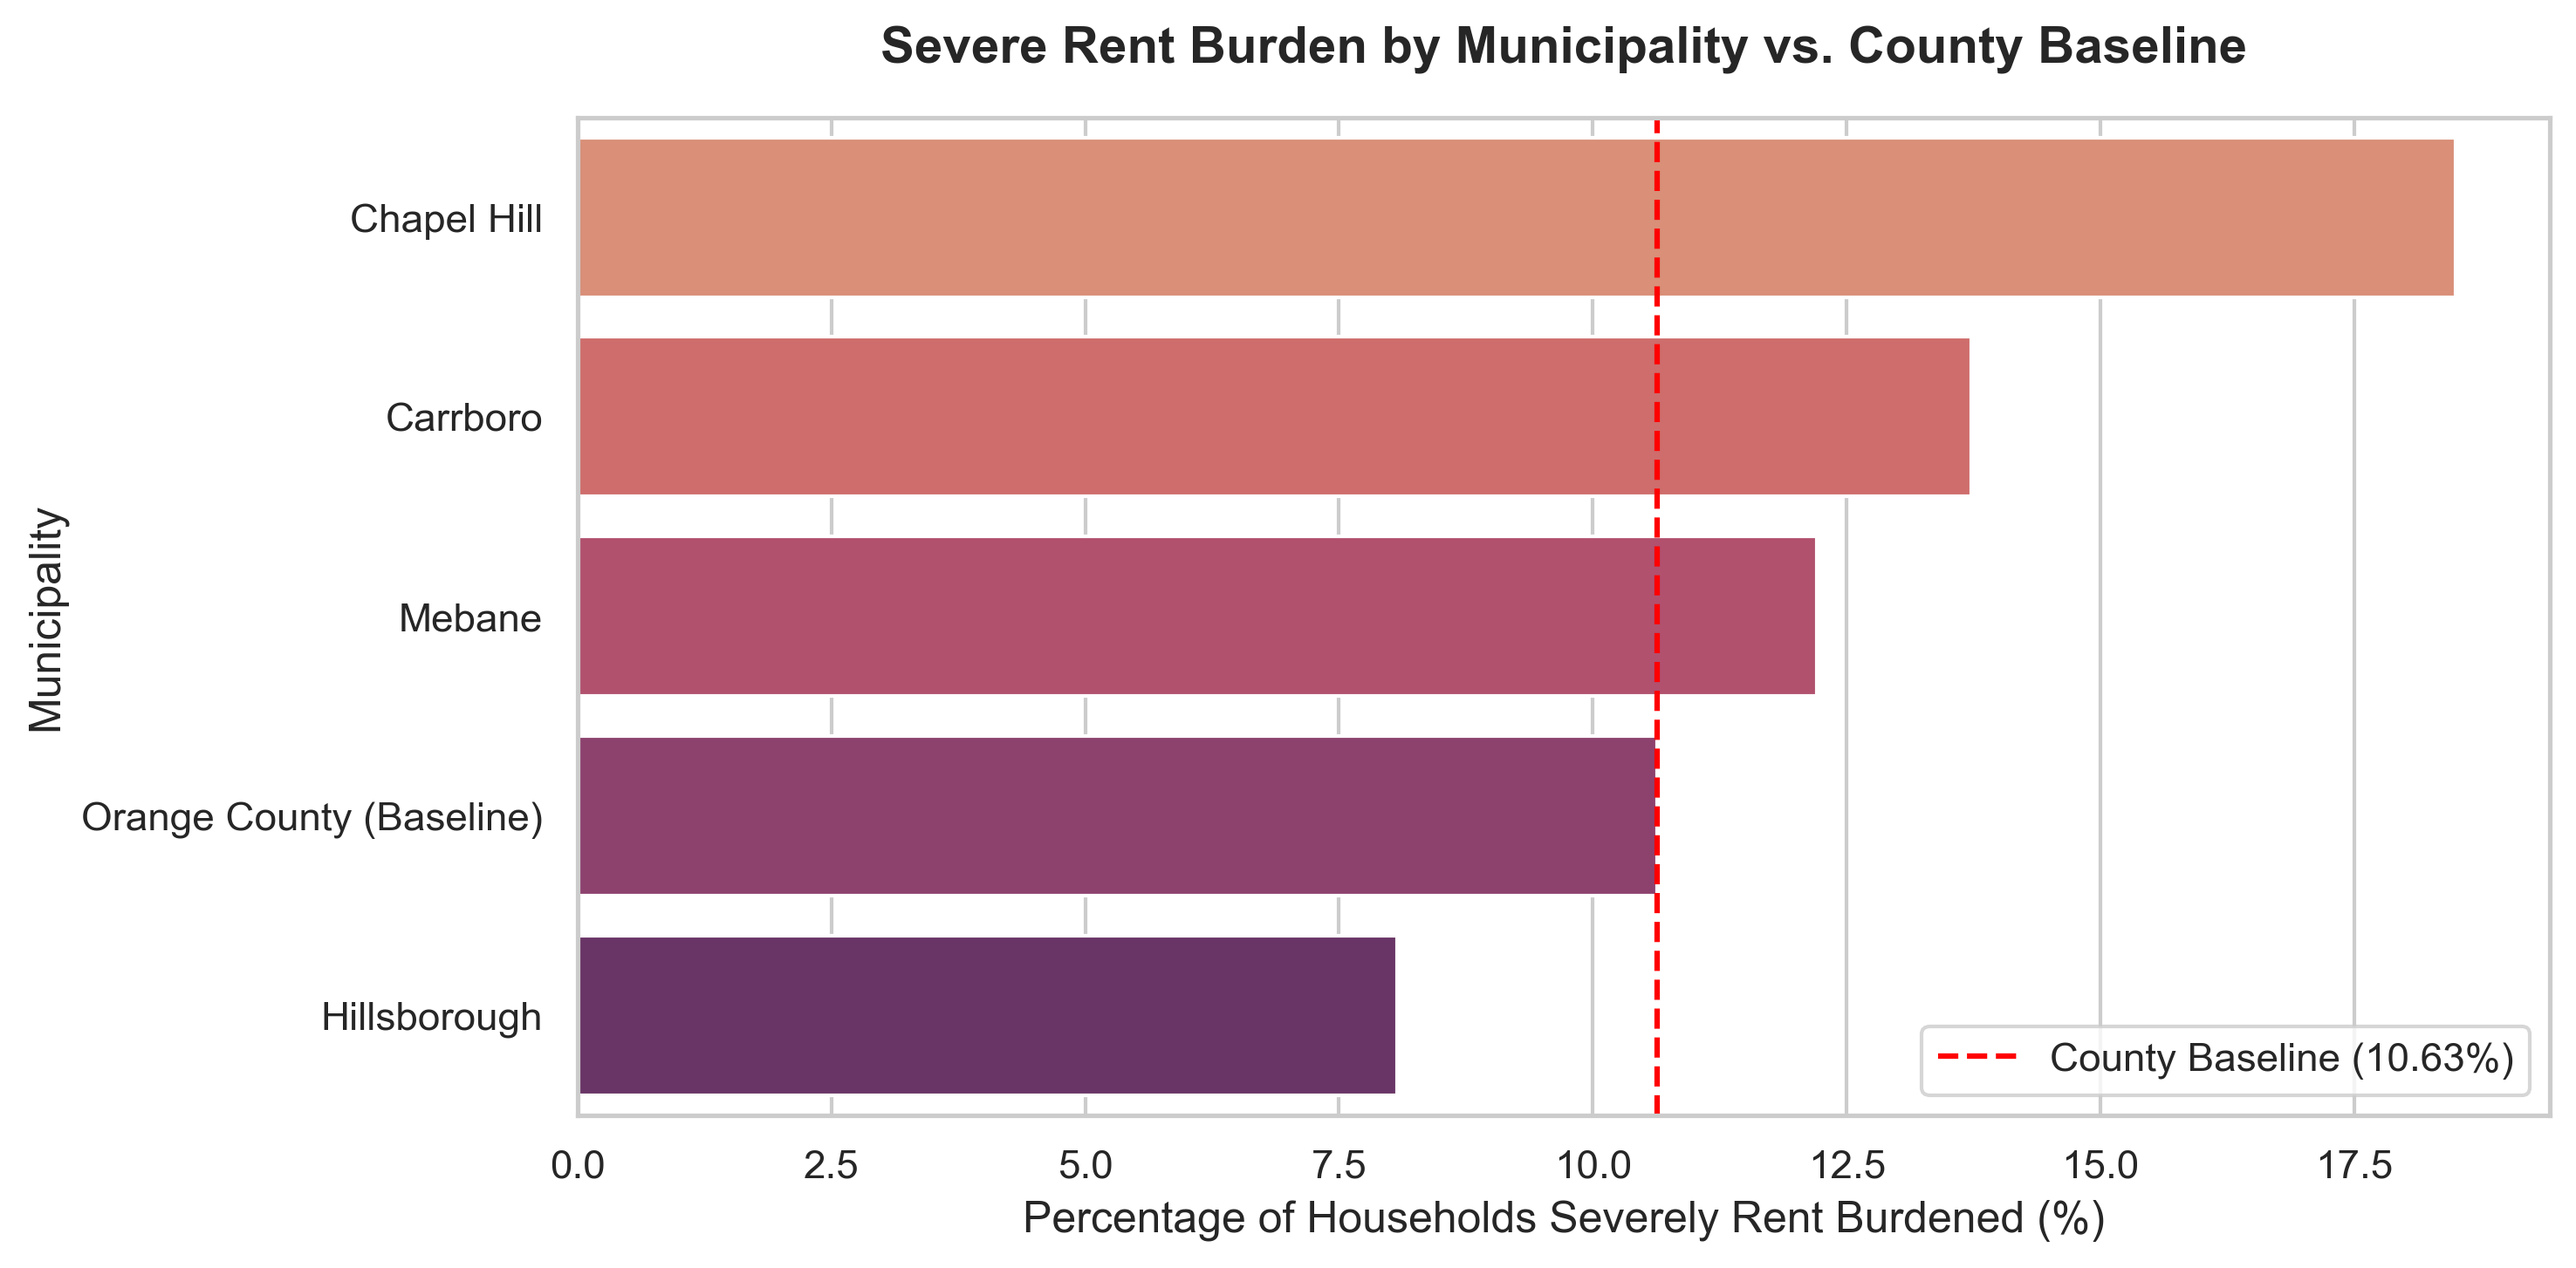
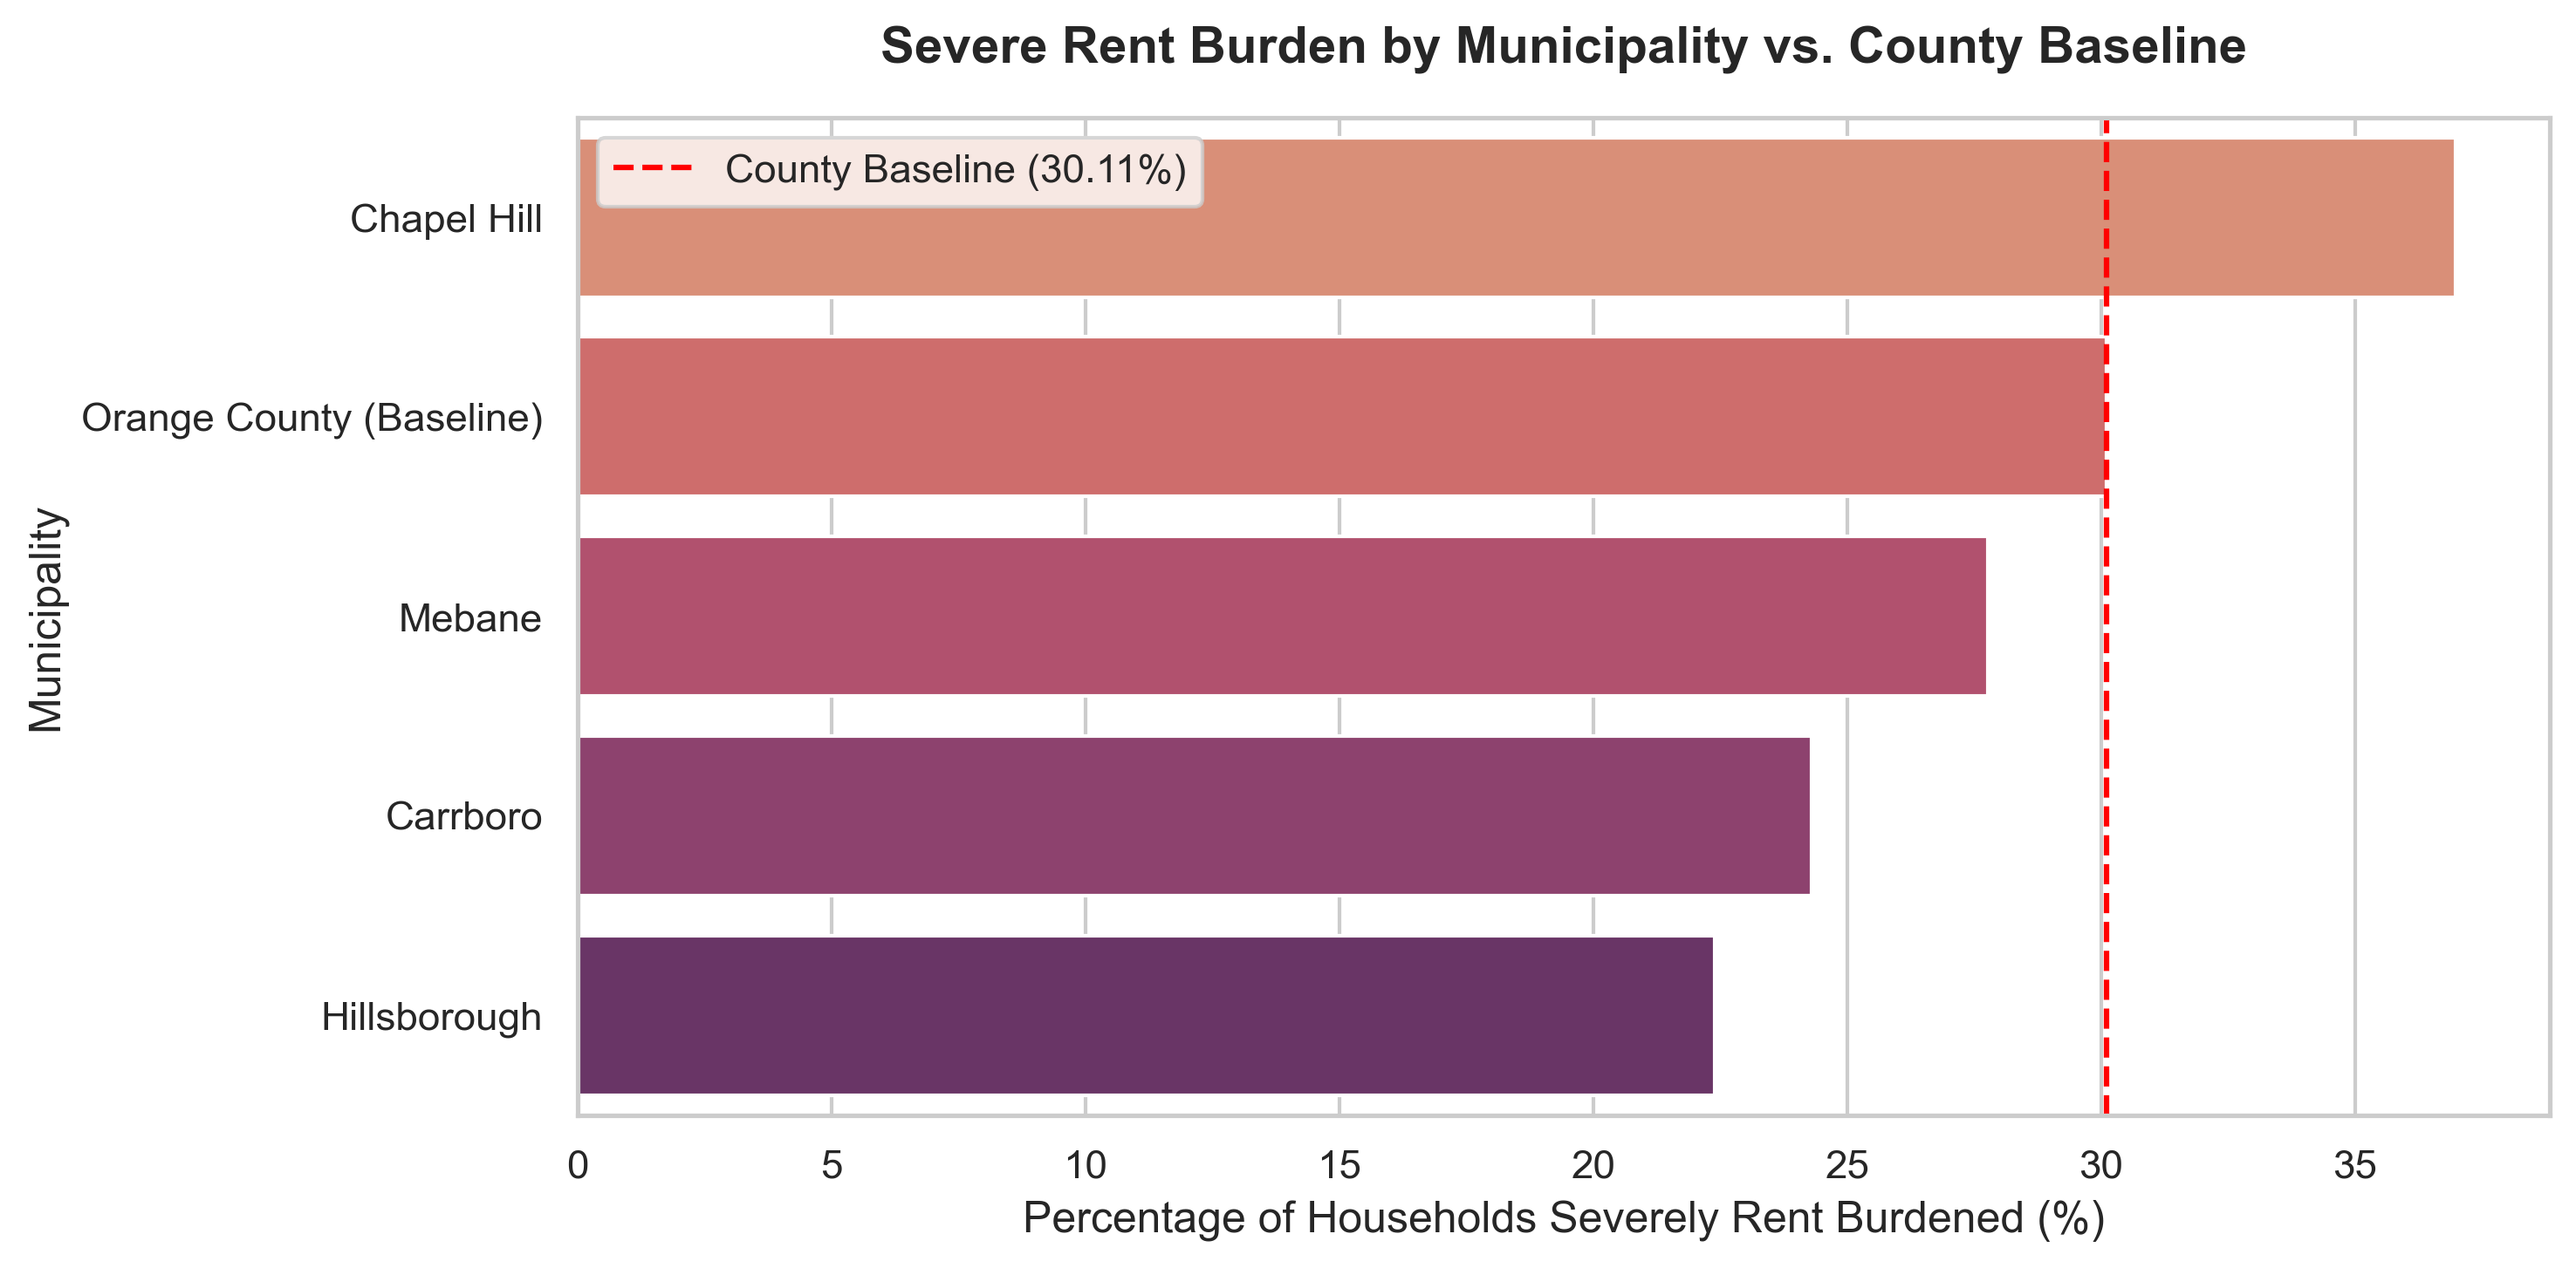
Expand census rent burden analysis
Adds standard rent-burden metrics alongside severe burden, pulls the extra ACS renter-household variables needed to compute them, and saves the census CSV under `data/census`. Also updates the analysis notebook, generated charts/data, and README to reflect the new rent burden and broadband comparisons.

diff --git a/src/census/census.py b/src/census/census.py
@@ -18,6 +18,10 @@ conn = cenpy.remote.APIConnection('ACSDT5Y2022')
 # 2. Define variables
 variables_to_pull = [
     'B25070_010E',   # Rent is 50.0% or more of income
+    'B25070_009E',   # Rent is 40.0 to 49.9% of income
+    'B25070_008E',   # Rent is 35.0 to 39.9% of income
+    'B25070_007E',   # Rent is 30.0 to 34.9% of income
+    'B25070_001E',    # Total Renter Households (for rent burden)
     'B08301_001E',   # Total Workers 16+
     'B08301_010E',   # Workers who commute via Public Transportation
     'B28002_001E',   # Total Households
@@ -78,7 +82,7 @@ if all_geographies_data:
         final_df[col] = pd.to_numeric(final_df[col], errors='coerce')
         
     # Save the master dataset
-    final_df.to_csv("acs_demographics.csv", index=False)
+    final_df.to_csv("data/census/acs_demographics.csv", index=False)
     print("\nData collection complete! Master CSV saved.")
 else:
     print("No data was collected.")

diff --git a/README.md b/README.md
@@ -114,17 +114,27 @@ Pulls the following demographics and statistics for the four municipalities and 
 
 ### Census_Data_Analysis.py 
 
-Analyzes Census data from the four municipalities and the county:
+Analyzes Census data from the four municipalities and the county. Due to limited time, national stats are referenced via Census press releases and therefore may refer to slightly different years than the data pulled for Orange County from the Census's American Community Survey 5-Year Data 2022. 
 
-Calculates demographic and ethnicity percentages:
+#### Calculates demographic and ethnicity percentages:
 ![Demographic Heatmap](data/census/demographic_heatmap.png)
 
-- Calculates percentage of households with severe rent burden (Rent is 50.0% or more of income)
-- Calculates percentage of workers who commute via public transit
-- Calculates households with broadband access 
+#### Calculates percentage of households with rent burden (Rent is 30.0% or more of income):
+![Rent Burden Chart](data/census/rent_burden_comparison.png)
+
+Nearly half (49.7%) of renters in 2023 had rent that was 30% or more of their income according to [Census.gov](https://www.census.gov/newsroom/press-releases/2024/renter-households-cost-burdened-race.html). Chapel Hill has higher than the nation and higher than the Orange County baseline of the percentage of households with rent burden. 
+
+#### Calculates percentage of workers who commute via public transit:
+![Transit Chart](data/census/transit_commuters_comparison.png)
+The national average in 2024 for those who commuted via public transit was 3.7 percent according to [Census.gov](https://www.census.gov/topics/employment/commuting/guidance/acs-1yr.html). Chapel Hill and Carborro are above this average. 
+
+#### Calculates households with broadband access: 
+![Broadband Chart](data/census/broadband_access_comparison.png)
+
+Only Mebane falls below the [national average](https://www.census.gov/newsroom/press-releases/2024/computer-internet-use-2021.html) of 90% of households having Broadband access. 
 
 
-## Analysis of Findings
+## Analysis of Findings -- Initiative_Analysis.ipynb
 
 ## Future Work
 
